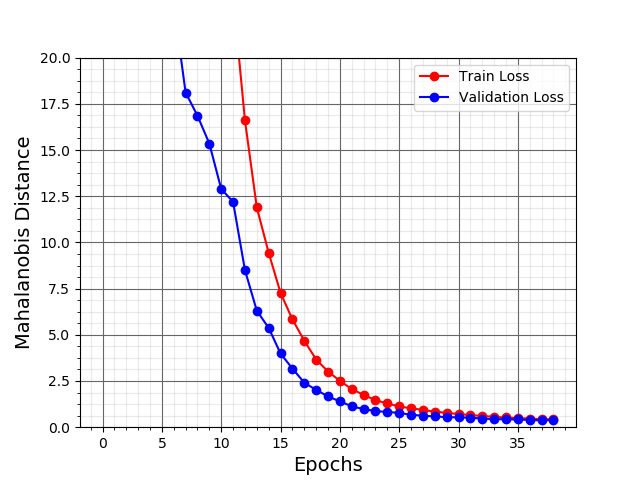
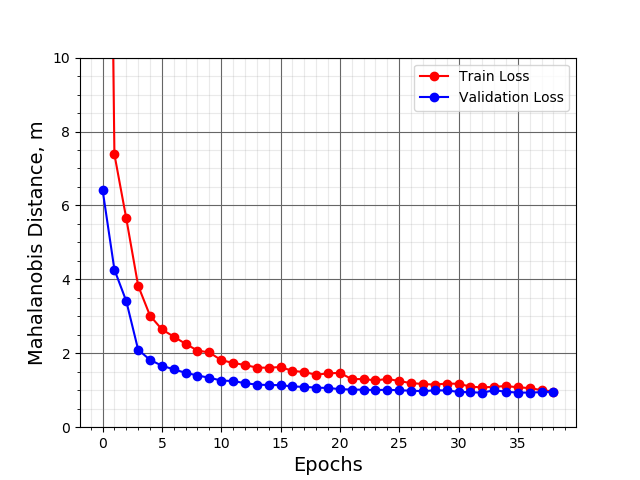
asd

diff --git a/Results/plotResults.m b/Results/plotResults.m
@@ -12,27 +12,27 @@ fig = figure('Renderer', 'painters', 'Position', [600 100 w h]);
 axes('Position', [0, 0.95, 1, 0.05] ) ;
 set( gca, 'Color', 'None', 'XColor', 'None', 'YColor', 'None' ) ;
 text( 0.75, 0, '- Ground Truth', 'FontSize', 10', 'Color', 'red', 'FontWeight', 'Bold','HorizontalAlignment', 'Center', 'VerticalAlignment', 'Bottom' ) ;
-text( 0.737, -0.3, '- Predicted', 'FontSize', 10', 'Color', 'blue', 'FontWeight', 'Bold','HorizontalAlignment', 'Center', 'VerticalAlignment', 'Bottom' ) ;
+text( 0.737, -0.5, '- Predicted', 'FontSize', 10', 'Color', 'blue', 'FontWeight', 'Bold','HorizontalAlignment', 'Center', 'VerticalAlignment', 'Bottom' ) ;
 subplot(3,1,1)
 plot(gt_dtr_gnd(:,1), 'r')
 hold on
 plot(pr_dtr_gnd(:,1), 'b.', 'markersize', 1)
 xlim([0 N])
-ylabel('X axis, m', 'fontsize', 14)
+ylabel('X axis, m', 'fontsize', 16)
 % ylim([-0.1, 2])
 subplot(3,1,2)
 plot(gt_dtr_gnd(:,2), 'r')
 hold on
 plot(pr_dtr_gnd(:,2), 'b.', 'markersize', 1)
 xlim([0 N])
-ylabel('Y axis, m', 'fontsize', 14)
+ylabel('Y axis, m', 'fontsize', 16)
 subplot(3,1,3)
 plot(gt_dtr_gnd(:,3), 'r')
 hold on
 plot(pr_dtr_gnd(:,3), 'b.', 'markersize', 1)
 xlim([0 N])
-ylabel('Z axis, m', 'fontsize', 14)
-
+ylabel('Z axis, m', 'fontsize', 16)
+xlabel('Data Points', 'fontsize', 16)
 
 
 w = 500;
@@ -44,24 +44,24 @@ set( gca, 'Color', 'None', 'XColor', 'None', 'YColor', 'None' ) ;
 subplot(3,1,1)
 plot(dtr_gnd_std3(:,1), 'bo', 'markersize', 1)
 xlim([0 N])
-ylabel('X axis, m', 'fontsize', 14)
+ylabel('X axis, m', 'fontsize', 16)
 subplot(3,1,2)
 plot(dtr_gnd_std3(:,2), 'bo', 'markersize', 1)
 xlim([0 N])
-ylabel('Y axis, m', 'fontsize', 14)
+ylabel('Y axis, m', 'fontsize', 16)
 subplot(3,1,3)
 plot(dtr_gnd_std3(:,3), 'bo', 'markersize', 1)
 xlim([0 N])
-ylabel('Z axis, m', 'fontsize', 14)
-
+ylabel('Z axis, m', 'fontsize', 16)
+xlabel('Data Points', 'fontsize', 16)
 
 figure
 plot(gt_pos(:,1), gt_pos(:,3), 'r', 'displayname', 'Ground Truth')
 hold on
 plot(pr_pos(:,1), pr_pos(:,3), 'b', 'markersize', 1, 'displayname', 'Predicted')
 legend
-ylabel('Y Position, m', 'fontsize', 14)
-xlabel('X Position, m', 'fontsize', 14)
+ylabel('Y Position, m', 'fontsize', 16)
+xlabel('X Position, m', 'fontsize', 16)
 
 
 

diff --git a/Results/show_cnn_pos.m b/Results/show_cnn_pos.m
@@ -1,7 +1,7 @@
 clc, clear, close all
 dsName = 'airsim';
-subType = 'mrseg';
-seq=2;
+subType = 'mr';
+seq=0;
 
 plotResults;
 
@@ -27,7 +27,12 @@ end
 
 plotELPS(dsName, gt_pos, pr_pos, P)
 
-figure
+fig = figure('Renderer', 'painters', 'Position', [600 100 560 430]);
+axes('Position', [0, 0.95, 1, 0.05] ) ;
+set( gca, 'Color', 'None', 'XColor', 'None', 'YColor', 'None' ) ;
+text( 0.6, 0, '- Ground Truth', 'FontSize', 10', 'Color', 'red', 'FontWeight', 'Bold','HorizontalAlignment', 'Center', 'VerticalAlignment', 'Bottom' ) ;
+text( 0.58, -0.5, '- Predicted', 'FontSize', 10', 'Color', 'blue', 'FontWeight', 'Bold','HorizontalAlignment', 'Center', 'VerticalAlignment', 'Bottom' ) ;
+text( 0.8, 0, '- Uncertainty', 'FontSize', 10', 'Color', 'green', 'FontWeight', 'Bold','HorizontalAlignment', 'Center', 'VerticalAlignment', 'Bottom' ) ;
 subplot(3,1,1)
 plot(gt_pos(:,1), 'r')
 xlim([0 N])
@@ -39,7 +44,7 @@ for i =1:100:N
     plot([i, i], [pr_pos(i,1)  pr_pos(i,1) + 3*std3(1)], 'g', 'linewidth', 1)
     plot([i, i], [pr_pos(i,1)  pr_pos(i,1) - 3*std3(1)], 'g', 'linewidth', 1)
 end
-ylabel('Position_X, m', 'fontsize', 14)
+ylabel('Position_X, m', 'fontsize', 16)
 grid on
 grid minor
 
@@ -55,7 +60,8 @@ for i =1:100:N
     plot([i, i], [pr_pos(i,2)  pr_pos(i,2) - 3*std3(2)], 'g', 'linewidth', 1)
 end
 
-ylabel('Position_Y, m', 'fontsize', 14)
+ylabel('Position_Y, m', 'fontsize', 16)
+
 grid on
 grid minor
 
@@ -71,7 +77,8 @@ for i =1:100:N
     plot([i, i], [pr_pos(i,3)  pr_pos(i,3) + 3*std3(3)], 'g', 'linewidth', 1)
     plot([i, i], [pr_pos(i,3)  pr_pos(i,3) - 3*std3(3)], 'g', 'linewidth', 1)
 end
-ylabel('Position_Z, m', 'fontsize', 14)
+ylabel('Position_Z, m', 'fontsize', 16)
+xlabel('Data Points', 'fontsize', 16)
 grid on
 grid minor
 

diff --git a/ShowTrainResult.py b/ShowTrainResult.py
@@ -26,15 +26,15 @@ def show(dsName, subType):
     plt.grid(b=True, which='major', color='#666666', linestyle='-')
     plt.minorticks_on()
     plt.grid(b=True, which='minor', color='#999999', linestyle='-', alpha=0.2)
-    plt.ylim(bottom=0, top=20)
-    plt.ylabel('Mahalanobis Distance', fontsize=14)
+    plt.ylim(bottom=0, top=10)
+    plt.ylabel('Mahalanobis Distance, m', fontsize=14)
     plt.xlabel('Epochs', fontsize=14)
     plt.savefig('trainResult.png')
     plt.show()
 
 if __name__ == '__main__':
-    dsName = 'euroc'
-    subType='none'
+    dsName = 'airsim'
+    subType='mr'
     show(dsName, subType)
 
 
